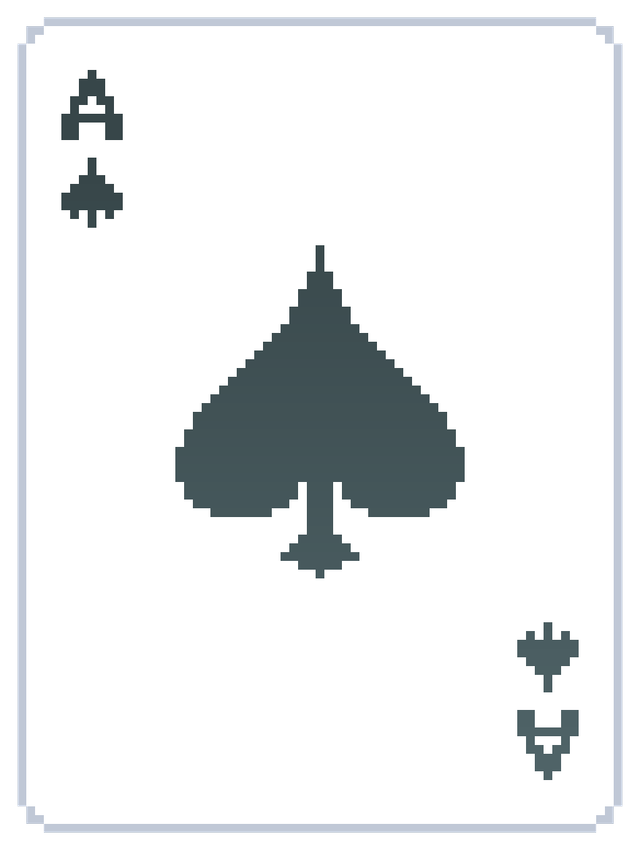
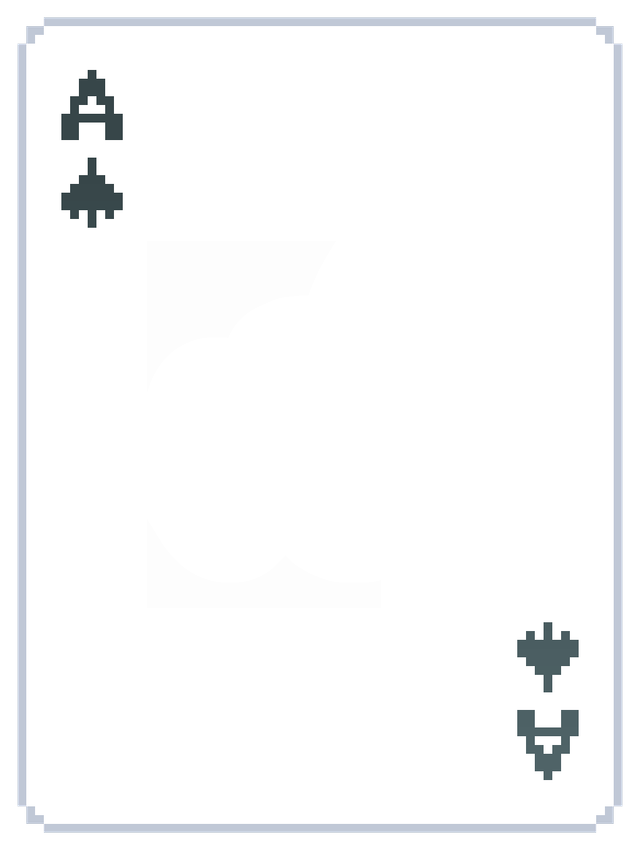
added it to be ace of spades texture instead of blank card texture

Changed region(s): [[0.25, 0.2753, 0.75, 0.6729]]

diff --git a/src/components/CardDeck.jsx b/src/components/CardDeck.jsx
@@ -1,5 +1,5 @@
 import { useState, useEffect } from 'react'
-import blankCardImage from './blank-playing-card-balatr-1753661972.png'
+import blankCardImage from './640px-Ace_of_Spades.png'
 import cardBackImage from './balatro-red-deck.png'
 
 export default function CardDeck({ cards, onCardClick, emptyMessage = "No more cards!" }) {
@@ -232,21 +232,6 @@ export default function CardDeck({ cards, onCardClick, emptyMessage = "No more c
                 justifyContent: 'space-between',
               }}
             >
-              {/* Top Corner - Suit and Rank */}
-              <div style={{ alignSelf: 'flex-start', textAlign: 'center' }}>
-                <div
-                  style={{
-                    fontSize: '2rem',
-                    fontWeight: 'bold',
-                    color: '#8b7355',
-                    lineHeight: '1',
-                    textShadow: '0 1px 2px rgba(0, 0, 0, 0.1)',
-                  }}
-                >
-                  {currentCard.suit}
-                </div>
-              </div>
-
               {/* Card Content */}
               <div style={{ textAlign: 'center', flex: 1, display: 'flex', flexDirection: 'column', justifyContent: 'center', width: '100%' }}>
                 <h3 style={{ fontSize: '1.6rem', color: '#5a4a38', marginBottom: '0.8rem', fontFamily: 'Georgia, serif', fontWeight: 'bold', textShadow: '0 1px 2px rgba(255, 255, 255, 0.3)' }}>
@@ -297,11 +282,8 @@ export default function CardDeck({ cards, onCardClick, emptyMessage = "No more c
                 )}
               </div>
 
-              {/* Bottom Corner - Suit and Card Counter */}
+              {/* Bottom Corner - Card Counter */}
               <div style={{ alignSelf: 'flex-end', textAlign: 'center', fontSize: '0.85rem', color: '#8b7355', fontWeight: '600' }}>
-                <div style={{ fontSize: '1.5rem', color: '#8b7355', marginBottom: '0.25rem' }}>
-                  {currentCard.suit}
-                </div>
                 <div>Card {currentIndex + 1}/{cards.length}</div>
               </div>
             </div>

diff --git a/src/components/PlayingCard.jsx b/src/components/PlayingCard.jsx
@@ -1,5 +1,5 @@
 import { useState } from 'react'
-import blankCardImage from './blank-playing-card-balatr-1753661972.png'
+import blankCardImage from './640px-Ace_of_Spades.png'
 import cardBackImage from './balatro-red-deck.png'
 
 export default function PlayingCard({ suit, rank, title, description }) {
